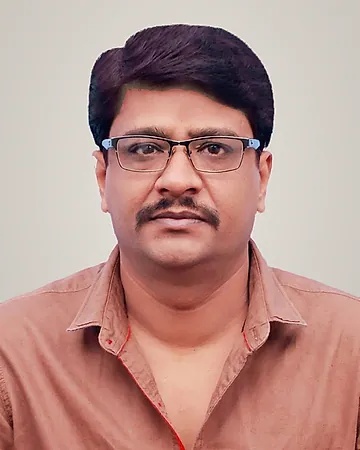
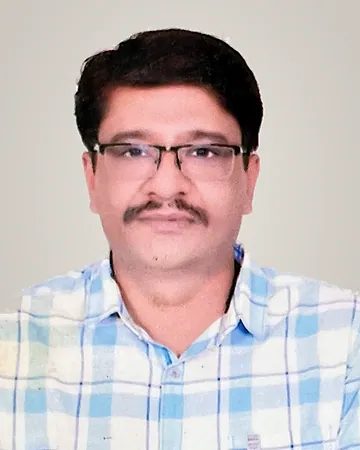
New portrait for Sanjeev Agarwal: print mode in the portrait builder (strict backdrop fill, dust, tone, grain)

diff --git a/README.md b/README.md
@@ -34,7 +34,7 @@ npm run images                      # cuts out the picked photos and converts ev
 
 The mark is redrawn as vectors from `Logo/Sameer Exports logo.png` (unchanged). Masters, colours and usage notes are in `Logo/polished/` (see its README; `preview.html` compares old and new). The site uses the flat red mark from `src/data/mark.json` in the header and footer, `public/favicon.svg` and `public/logo.svg`; `npm run images` makes `favicon.ico`, `apple-touch-icon.png` and `logo.png` (structured data) from those two SVGs.
 
-The portraits on the About and Contact pages come from `Logo/Sanjeev.jpg` and `Logo/Sarthak.jpeg`. `npm run images` swaps their studio backdrops for the same warm grey and crops them 4:5 (`PEOPLE` in `scripts/build-images.mjs`); names, designations, phones and emails are in `src/data/site.ts` (`people`).
+The portraits on the About and Contact pages come from `Logo/Sanjeev-new.jpeg` (a photographed passport print) and `Logo/Sarthak.jpeg`. `npm run images` swaps their backdrops for the same warm grey and crops them 4:5 (`PEOPLE` in `scripts/build-images.mjs`); for the print it also trims the print's edges, removes dust, corrects the faded colour and smooths the grain. Names, designations, phones and emails are in `src/data/site.ts` (`people`).
 
 ## Deploy (Cloudflare Pages)
 
